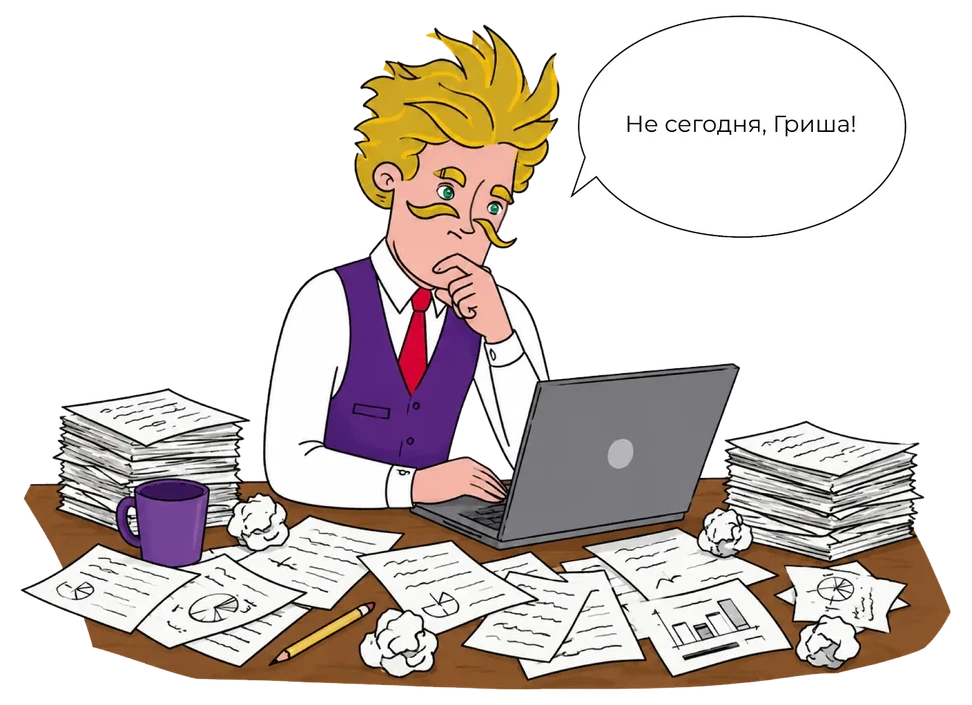
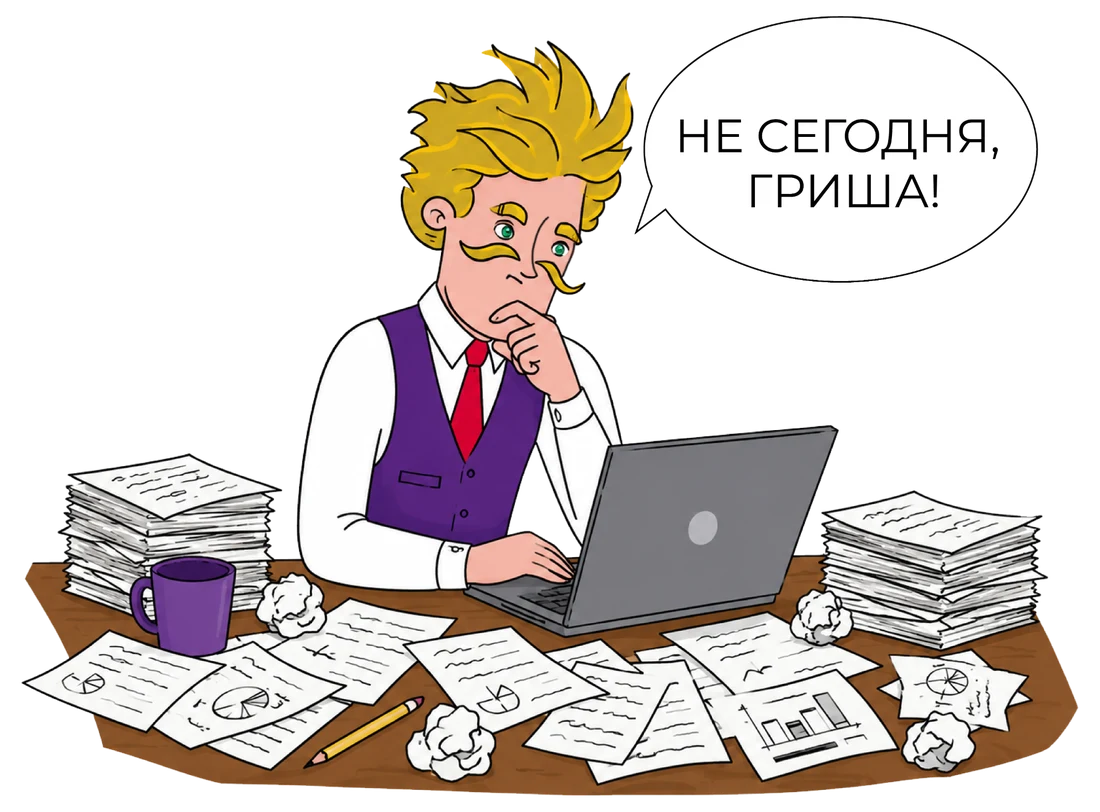
Replace argument-story and comic-strip characters with updated artwork
Swaps checklist-guy, door-peek, and boss-desk for the new higher-res
character illustrations, cropped to content bounds and resized for web.

diff --git a/export/karta-roley-embed.html b/export/karta-roley-embed.html
@@ -761,7 +761,7 @@
         <p class="lede">Люди думают, <br class="hard-break">что переговоры выигрывают аргументы</p>
         <p class="prose">Поэтому они тщательно готовят ответы на&nbsp;возражения. Подбирают факты. Ищут самые убедительные формулировки.</p>
       </div>
-      <img src="https://ingaprihodko-jpg.github.io/test-site/assets/images/checklist-guy.webp" alt="Довольный человек со&nbsp;списком аргументов: «С&nbsp;такими аргументами мне точно не&nbsp;смогут отказать!»" width="1000" height="921">
+      <img src="https://ingaprihodko-jpg.github.io/test-site/assets/images/checklist-guy.webp" alt="Довольный человек со&nbsp;списком аргументов: «С&nbsp;такими аргументами мне точно не&nbsp;смогут отказать!»" width="1100" height="1071">
     </div>
 
     <div data-reveal class="prose" style="margin-bottom: 40px;">
@@ -782,8 +782,8 @@
     </ul>
 
     <div data-reveal class="comic-strip">
-      <img src="https://ingaprihodko-jpg.github.io/test-site/assets/images/door-peek.webp" alt="Человек заглядывает в&nbsp;дверь кабинета: «Петр Петрович, мне очень нужно с&nbsp;вами поговорить…»" width="784" height="921">
-      <img src="https://ingaprihodko-jpg.github.io/test-site/assets/images/boss-desk.webp" alt="Начальник за&nbsp;столом отвечает не&nbsp;поворачиваясь: «Не&nbsp;сегодня, Гриша!»" width="972" height="705">
+      <img src="https://ingaprihodko-jpg.github.io/test-site/assets/images/door-peek.webp" alt="Человек заглядывает в&nbsp;дверь кабинета: «Петр Петрович, мне очень нужно с&nbsp;вами поговорить…»" width="1100" height="1142">
+      <img src="https://ingaprihodko-jpg.github.io/test-site/assets/images/boss-desk.webp" alt="Начальник за&nbsp;столом отвечает не&nbsp;поворачиваясь: «Не&nbsp;сегодня, Гриша!»" width="1100" height="812">
     </div>
   </div>
 </section>

diff --git a/old/index.html b/old/index.html
@@ -761,7 +761,7 @@
         <p class="lede">Люди думают, <br class="hard-break">что переговоры выигрывают аргументы</p>
         <p class="prose">Поэтому они тщательно готовят ответы на&nbsp;возражения. Подбирают факты. Ищут самые убедительные формулировки.</p>
       </div>
-      <img src="../assets/images/checklist-guy.webp" alt="Довольный человек со&nbsp;списком аргументов: «С&nbsp;такими аргументами мне точно не&nbsp;смогут отказать!»" width="1000" height="921">
+      <img src="../assets/images/checklist-guy.webp" alt="Довольный человек со&nbsp;списком аргументов: «С&nbsp;такими аргументами мне точно не&nbsp;смогут отказать!»" width="1100" height="1071">
     </div>
 
     <div data-reveal class="prose" style="margin-bottom: 40px;">
@@ -782,8 +782,8 @@
     </ul>
 
     <div data-reveal class="comic-strip">
-      <img src="../assets/images/door-peek.webp" alt="Человек заглядывает в&nbsp;дверь кабинета: «Петр Петрович, мне очень нужно с&nbsp;вами поговорить…»" width="784" height="921">
-      <img src="../assets/images/boss-desk.webp" alt="Начальник за&nbsp;столом отвечает не&nbsp;поворачиваясь: «Не&nbsp;сегодня, Гриша!»" width="972" height="705">
+      <img src="../assets/images/door-peek.webp" alt="Человек заглядывает в&nbsp;дверь кабинета: «Петр Петрович, мне очень нужно с&nbsp;вами поговорить…»" width="1100" height="1142">
+      <img src="../assets/images/boss-desk.webp" alt="Начальник за&nbsp;столом отвечает не&nbsp;поворачиваясь: «Не&nbsp;сегодня, Гриша!»" width="1100" height="812">
     </div>
   </div>
 </section>

diff --git a/v2/index.html b/v2/index.html
@@ -772,7 +772,7 @@
         <p class="lede">Люди думают,<br>что переговоры выигрывают аргументы</p>
         <p class="prose">Поэтому они тщательно готовят ответы на&nbsp;возражения. Подбирают факты. Ищут самые убедительные формулировки.</p>
       </div>
-      <img src="../assets/images/checklist-guy.webp" alt="Довольный человек со&nbsp;списком аргументов: «С&nbsp;такими аргументами мне точно не&nbsp;смогут отказать!»" width="1000" height="921">
+      <img src="../assets/images/checklist-guy.webp" alt="Довольный человек со&nbsp;списком аргументов: «С&nbsp;такими аргументами мне точно не&nbsp;смогут отказать!»" width="1100" height="1071">
     </div>
 
     <div data-reveal class="prose" style="margin-bottom: 40px;">
@@ -792,8 +792,8 @@
     </div>
 
     <div data-reveal class="comic-strip">
-      <img src="../assets/images/door-peek.webp" alt="Человек заглядывает в&nbsp;дверь кабинета: «Петр Петрович, мне очень нужно с&nbsp;вами поговорить…»" width="1000" height="921">
-      <img src="../assets/images/boss-desk.webp" alt="Начальник за&nbsp;столом отвечает не&nbsp;поворачиваясь: «Не&nbsp;сегодня, Гриша!»" width="1000" height="920">
+      <img src="../assets/images/door-peek.webp" alt="Человек заглядывает в&nbsp;дверь кабинета: «Петр Петрович, мне очень нужно с&nbsp;вами поговорить…»" width="1100" height="1142">
+      <img src="../assets/images/boss-desk.webp" alt="Начальник за&nbsp;столом отвечает не&nbsp;поворачиваясь: «Не&nbsp;сегодня, Гриша!»" width="1100" height="812">
     </div>
   </div>
 </section>
